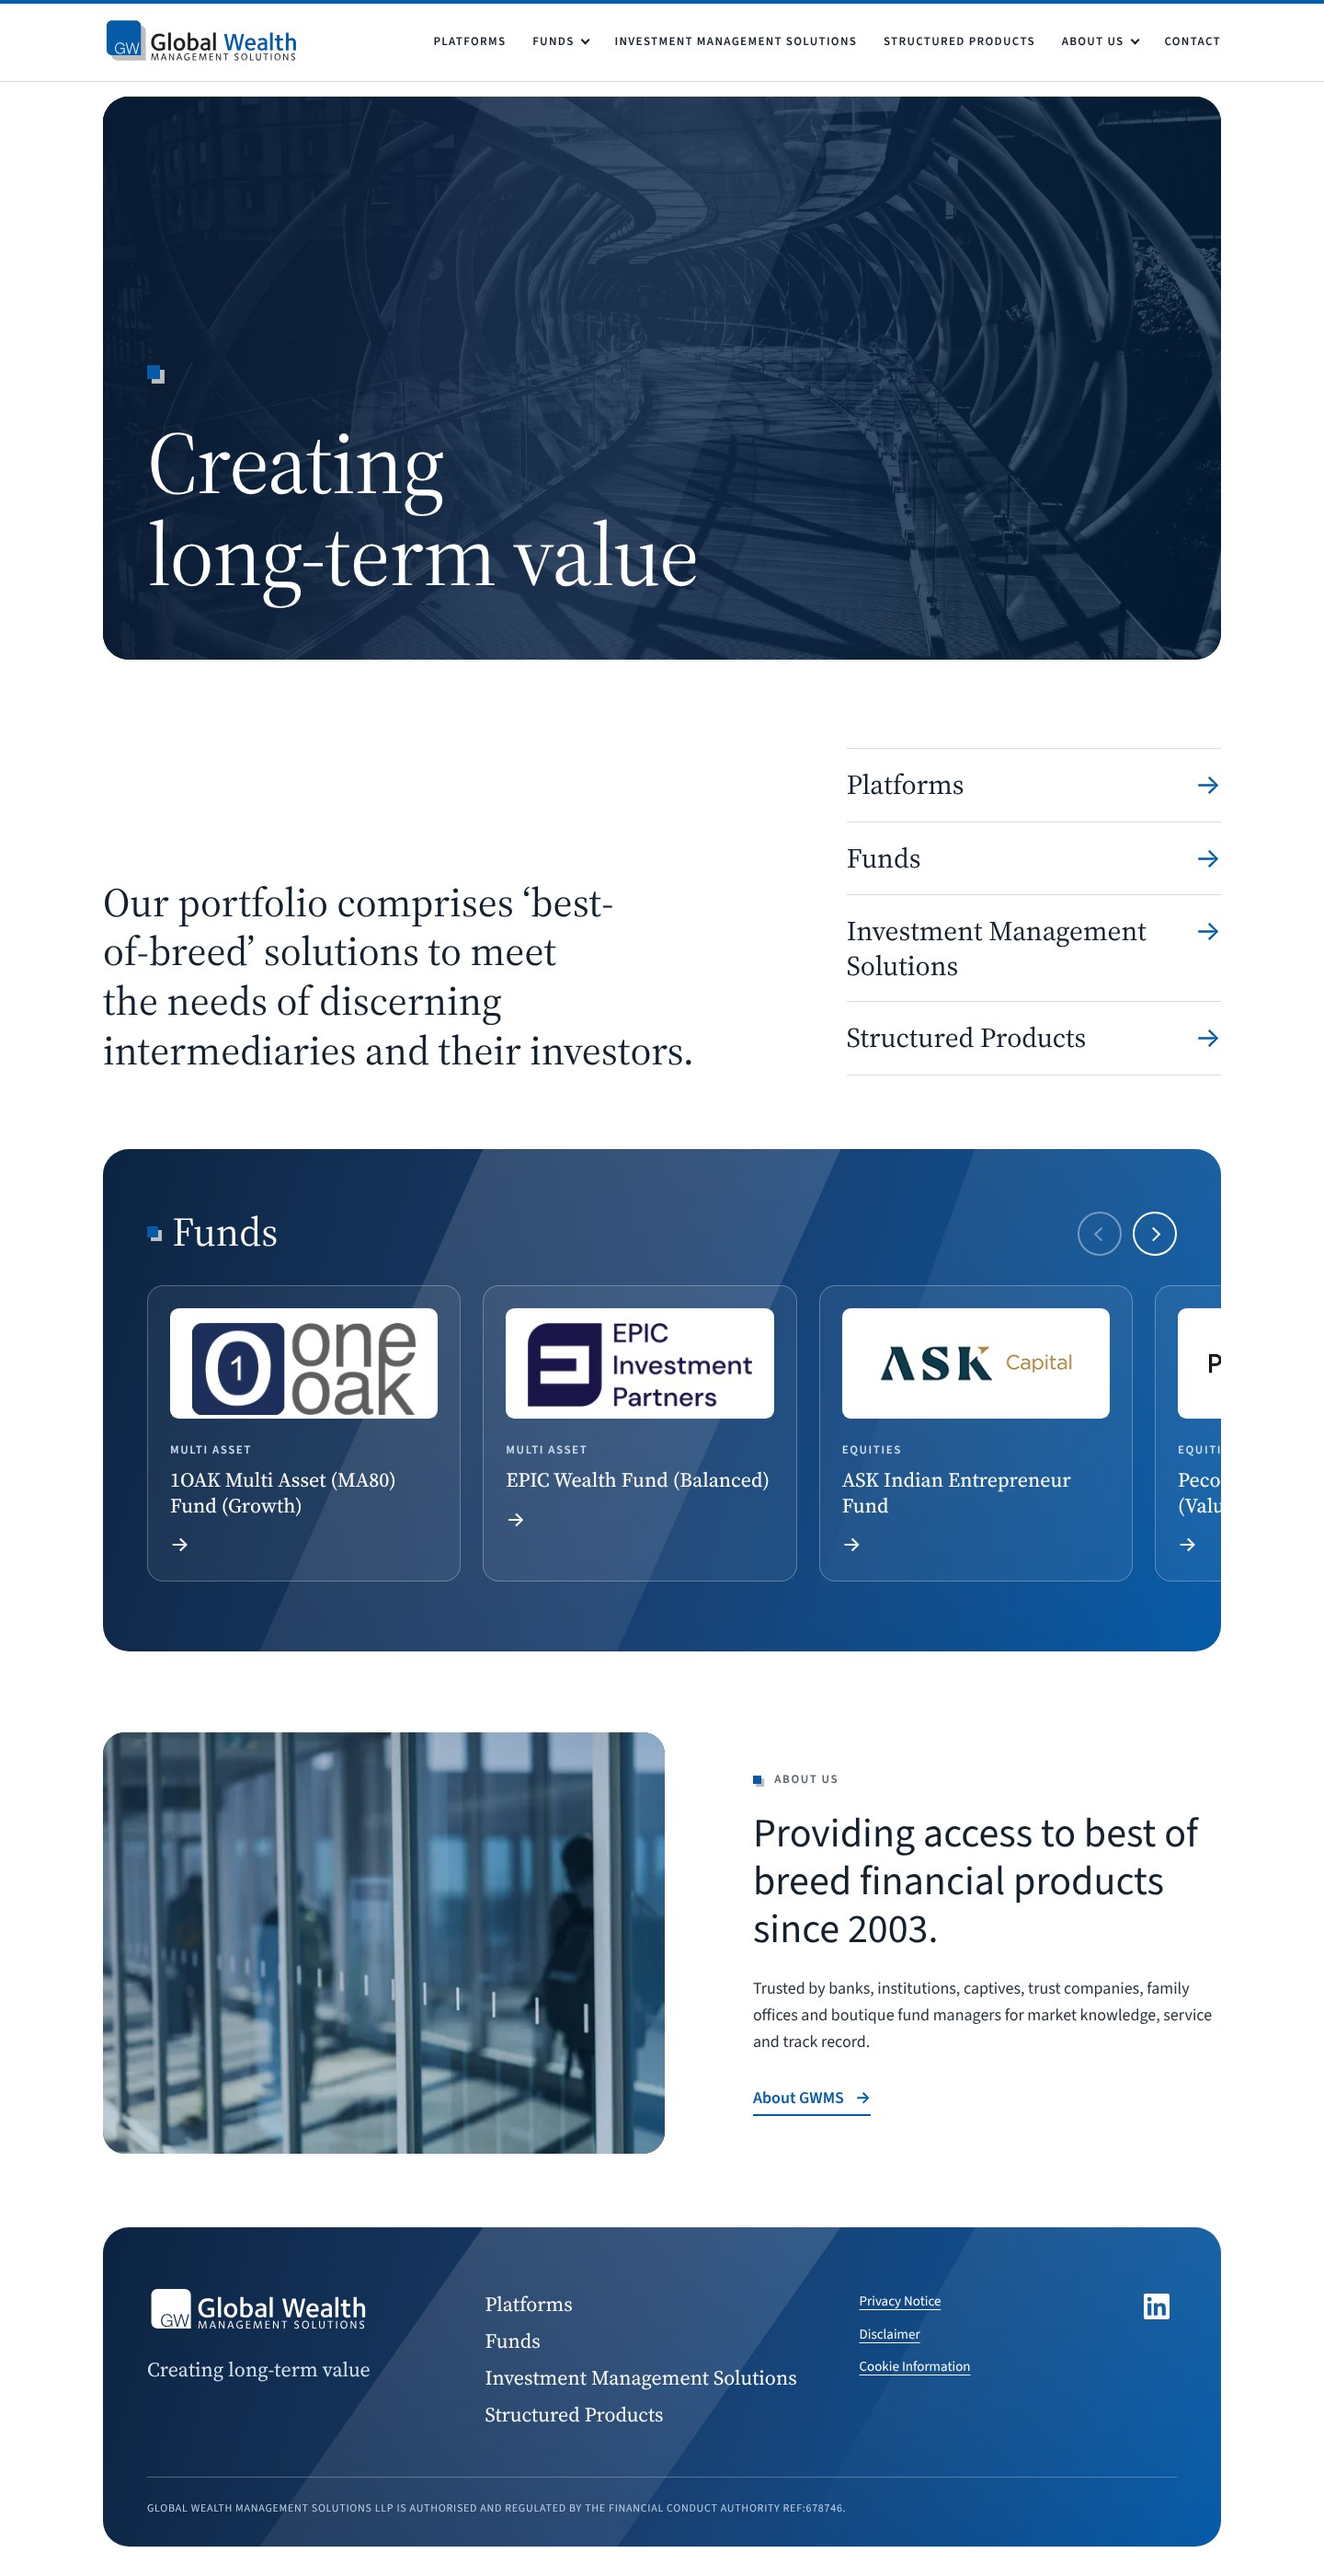
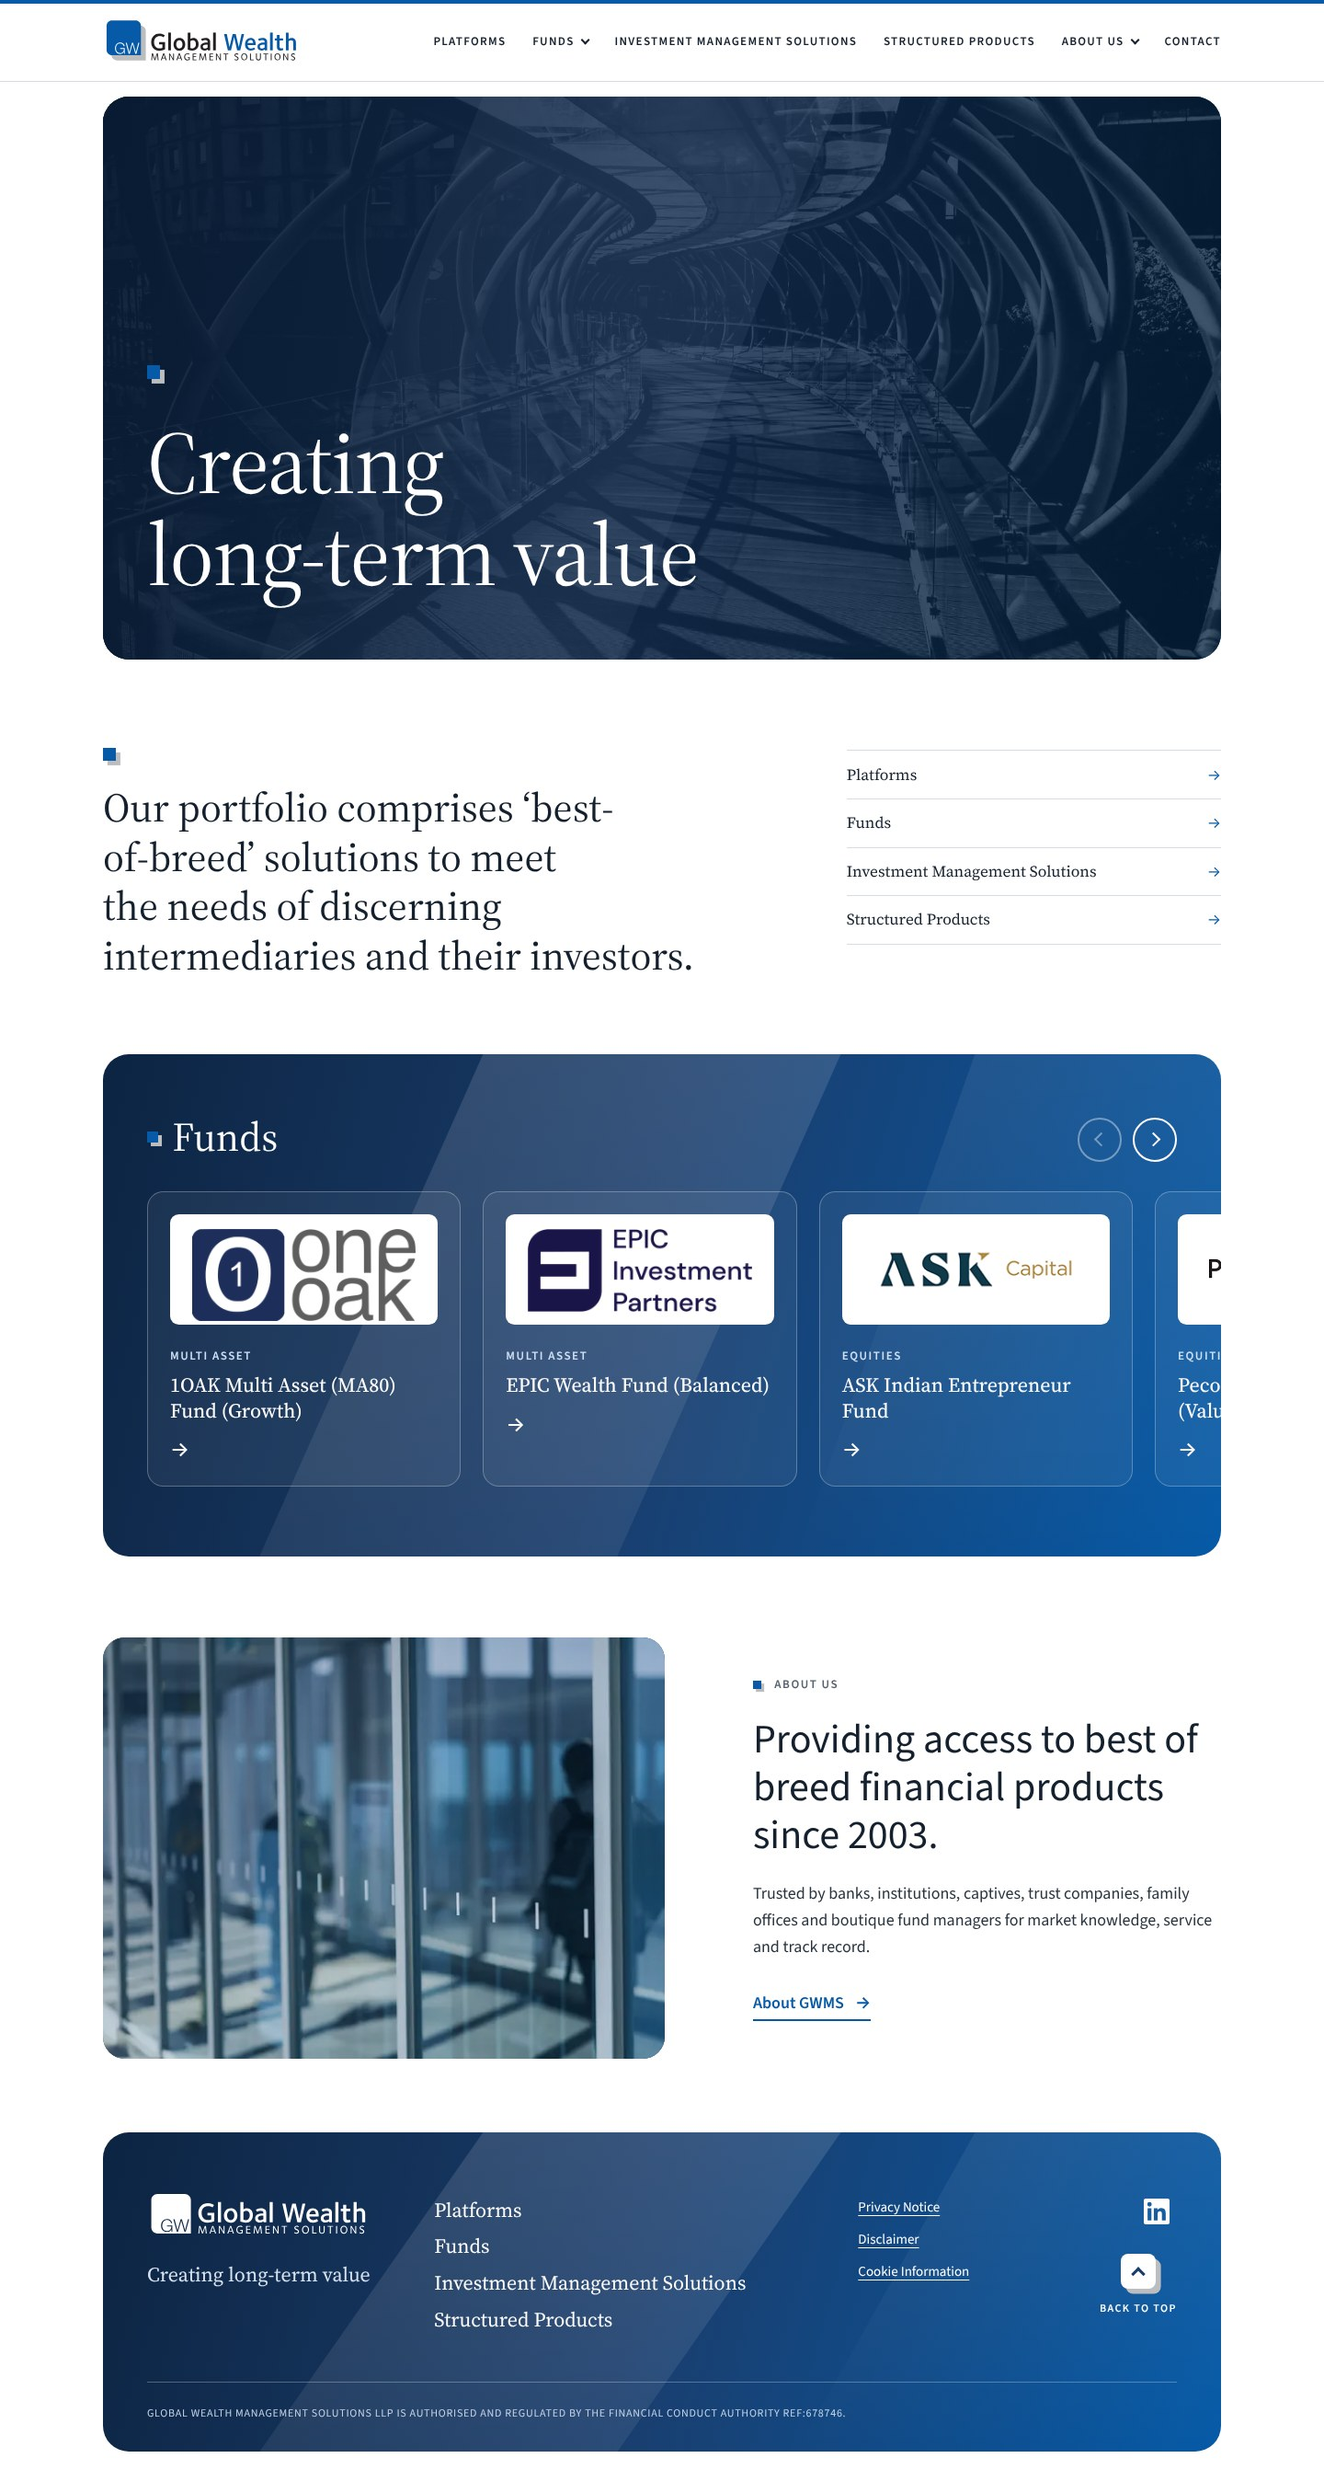
Concept home: top-aligned second section with marker, smaller index links, footer back-to-top

diff --git a/preview/concept-home/index.html b/preview/concept-home/index.html
@@ -13,7 +13,7 @@
 <script src="../js/init.js"></script>
 <link rel="stylesheet" href="../css/concept.css">
 </head>
-<body>
+<body id="top">
 <a class="skip-link" href="#main">Skip to main content</a>
 <header class="site-header">
   <div class="site-header__bar container">
@@ -109,7 +109,10 @@
 </div>
 <section class="statement statement--plain">
   <div class="container statement__grid">
-    <h2 class="statement__lead">Our portfolio comprises ‘best-of-breed’ solutions to meet the needs of discerning intermediaries and their investors.</h2>
+    <div class="statement__text">
+      <span class="motif" aria-hidden="true"></span>
+      <h2 class="statement__lead">Our portfolio comprises ‘best-of-breed’ solutions to meet the needs of discerning intermediaries and their investors.</h2>
+    </div>
     <ul class="index">
       <li><a href="../platforms/index.html"><span>Platforms</span></a></li>
       <li><a href="../levendi-thornbridge-defined-return-fund/index.html"><span>Funds</span></a></li>
@@ -178,9 +181,12 @@
           <li><a href="../disclaimer/index.html">Disclaimer</a></li>
           <li><a href="../cookie-information/index.html">Cookie Information</a></li>
         </ul>
+        <div class="footer-side">
         <a class="footer-social" href="https://www.linkedin.com/company/gwms/" target="_blank" rel="noopener" aria-label="LinkedIn (opens in a new tab)">
           <svg viewBox="0 0 24 24" width="28" height="28" aria-hidden="true" focusable="false"><path fill="currentColor" d="M20.447 20.452h-3.554v-5.569c0-1.328-.027-3.037-1.852-3.037-1.853 0-2.136 1.445-2.136 2.939v5.667H9.351V9h3.414v1.561h.046c.477-.9 1.637-1.85 3.37-1.85 3.601 0 4.267 2.37 4.267 5.455v6.286zM5.337 7.433a2.063 2.063 0 1 1 0-4.126 2.063 2.063 0 0 1 0 4.126zM7.119 20.452H3.555V9h3.564v11.452zM22.225 0H1.771C.792 0 0 .774 0 1.729v20.542C0 23.227.792 24 1.771 24h20.451C23.2 24 24 23.227 24 22.271V1.729C24 .774 23.2 0 22.222 0z"/></svg>
         </a>
+        <a class="to-top" href="#top"><span class="to-top__tile" aria-hidden="true"></span><span class="to-top__label">Back to top</span></a>
+        </div>
       </div>
       <div class="footer-small">
         <p class="footer-reg">GLOBAL WEALTH MANAGEMENT SOLUTIONS LLP IS AUTHORISED AND REGULATED BY THE FINANCIAL CONDUCT AUTHORITY REF:678746.</p>

diff --git a/preview/css/concept.css b/preview/css/concept.css
@@ -108,4 +108,21 @@
 .footer-social:focus-visible, .footer-nav a:focus-visible, .footer-legal a:focus-visible, .footer-logo:focus-visible { outline-color: #fff; }
 .footer-small { max-width: var(--container); margin: var(--s-7) auto 0; padding-top: var(--s-5); border-top: 1px solid rgba(255, 255, 255, 0.28); }
 .footer-reg { margin: 0; font-size: 0.75rem; letter-spacing: 0.06em; line-height: 1.6; color: #c3d3e8; }
-@media (min-width: 60rem) { .footer-top { grid-template-columns: 1.15fr 1.3fr 0.9fr auto; gap: var(--s-8); } .footer-social { justify-self: end; } }
+@media (min-width: 60rem) { .footer-top { grid-template-columns: 1fr 1.6fr 0.8fr auto; gap: var(--s-8); } .footer-social { justify-self: end; } }
+
+/* ---- Second section: top-aligned, quieter index links, decorative marker ---------- */
+.statement--plain .statement__grid { align-items: start; }
+.statement__text .motif { font-size: 1.1rem; display: block; margin-bottom: var(--s-5); }
+.statement--plain .index a { font-size: 1.0625rem; padding: 0.95rem 0; }
+.statement--plain .index a::after { font-size: 1rem; }
+@media (min-width: 60rem) { .statement--plain .index { margin-top: 0.15rem; } }
+
+/* ---- Footer: LinkedIn + back-to-top stack ---------------------------------------- */
+.footer-side { display: flex; flex-direction: column; align-items: flex-start; gap: var(--s-5); }
+@media (min-width: 60rem) { .footer-side { align-items: flex-end; } .footer-top .footer-social { justify-self: auto; } }
+.to-top { display: inline-flex; flex-direction: column; align-items: center; gap: var(--s-3); color: #fff; text-decoration: none; }
+.to-top__tile { position: relative; width: 2.4rem; height: 2.4rem; background: #fff; border-radius: 0.5rem; box-shadow: 0.35rem 0.35rem 0 var(--gw-grey); }
+.to-top__tile::before { content: ""; position: absolute; left: 50%; top: 52%; width: 0.7rem; height: 0.7rem; border-left: 3px solid var(--gw-navy); border-top: 3px solid var(--gw-navy); transform: translate(-50%, -30%) rotate(45deg); }
+.to-top__label { font-size: 0.75rem; font-weight: 600; letter-spacing: 0.12em; text-transform: uppercase; }
+.to-top:hover .to-top__tile { transform: translateY(-2px); }
+.to-top:focus-visible { outline: 3px solid #fff; outline-offset: 6px; }

diff --git a/preview/ask-capital-india-entrepreneur-fund/index.html b/preview/ask-capital-india-entrepreneur-fund/index.html
@@ -12,7 +12,7 @@
 <link rel="stylesheet" href="../css/components.css">
 <script src="../js/init.js"></script>
 </head>
-<body>
+<body id="top">
 <a class="skip-link" href="#main">Skip to main content</a>
 <header class="site-header">
   <div class="site-header__bar container">

diff --git a/preview/index.html b/preview/index.html
@@ -12,7 +12,7 @@
 <link rel="stylesheet" href="css/components.css">
 <script src="js/init.js"></script>
 </head>
-<body>
+<body id="top">
 <a class="skip-link" href="#main">Skip to main content</a>
 <header class="site-header">
   <div class="site-header__bar container">

diff --git a/tools/make_preview.py b/tools/make_preview.py
@@ -128,7 +128,7 @@ def page(title, path, body, section=None, extra_head="", footer=None, extra_scri
 <link rel="stylesheet" href="/css/components.css">
 <script src="/js/init.js"></script>
 {extra_head}</head>
-<body>
+<body id="top">
 <a class="skip-link" href="#main">Skip to main content</a>
 {header(path, section)}
 <main id="main">
@@ -265,7 +265,10 @@ CONCEPT = f'''<div class="frame">
 </div>
 <section class="statement statement--plain">
   <div class="container statement__grid">
-    <h2 class="statement__lead">Our portfolio comprises ‘best-of-breed’ solutions to meet the needs of discerning intermediaries and their investors.</h2>
+    <div class="statement__text">
+      <span class="motif" aria-hidden="true"></span>
+      <h2 class="statement__lead">Our portfolio comprises ‘best-of-breed’ solutions to meet the needs of discerning intermediaries and their investors.</h2>
+    </div>
     <ul class="index">
       <li><a href="/platforms"><span>Platforms</span></a></li>
       <li><a href="/levendi-thornbridge-defined-return-fund"><span>Funds</span></a></li>
@@ -331,9 +334,12 @@ CONCEPT_FOOTER = f'''<footer class="site-footer site-footer--wide on-dark">
           <li><a href="/disclaimer">Disclaimer</a></li>
           <li><a href="/cookie-information">Cookie Information</a></li>
         </ul>
+        <div class="footer-side">
         <a class="footer-social" href="https://www.linkedin.com/company/gwms/" target="_blank" rel="noopener" aria-label="LinkedIn (opens in a new tab)">
           <svg viewBox="0 0 24 24" width="28" height="28" aria-hidden="true" focusable="false"><path fill="currentColor" d="M20.447 20.452h-3.554v-5.569c0-1.328-.027-3.037-1.852-3.037-1.853 0-2.136 1.445-2.136 2.939v5.667H9.351V9h3.414v1.561h.046c.477-.9 1.637-1.85 3.37-1.85 3.601 0 4.267 2.37 4.267 5.455v6.286zM5.337 7.433a2.063 2.063 0 1 1 0-4.126 2.063 2.063 0 0 1 0 4.126zM7.119 20.452H3.555V9h3.564v11.452zM22.225 0H1.771C.792 0 0 .774 0 1.729v20.542C0 23.227.792 24 1.771 24h20.451C23.2 24 24 23.227 24 22.271V1.729C24 .774 23.2 0 22.222 0z"/></svg>
         </a>
+        <a class="to-top" href="#top"><span class="to-top__tile" aria-hidden="true"></span><span class="to-top__label">Back to top</span></a>
+        </div>
       </div>
       <div class="footer-small">
         <p class="footer-reg">{e(REG)}</p>

diff --git a/docs/08-concept-home.md b/docs/08-concept-home.md
@@ -32,3 +32,7 @@ Footer is four columns: (1) full logo, (2) navigation, (3) legal links (Privacy 
 
 ## Revision 4
 Footer uses your white single-colour logo (`design-assets/supplied/logo-final-white.svg`, delivered with an `.ai` extension but actually an SVG) directly on the gradient, with the existing line "Creating long-term value" as the strapline underneath. The white-plate version is retired.
+
+## Revision 5
+- Second section: statement text aligned to the top with the small offset-square marker above it (as in the other sections); index links reduced to 17 px with smaller arrows.
+- Footer: a "Back to top" link (`#top`) under the LinkedIn icon, drawn as a white tile with a grey offset shadow and an up-chevron, echoing the logo mark. "Back to top" is new functional UI text (not marketing copy).
